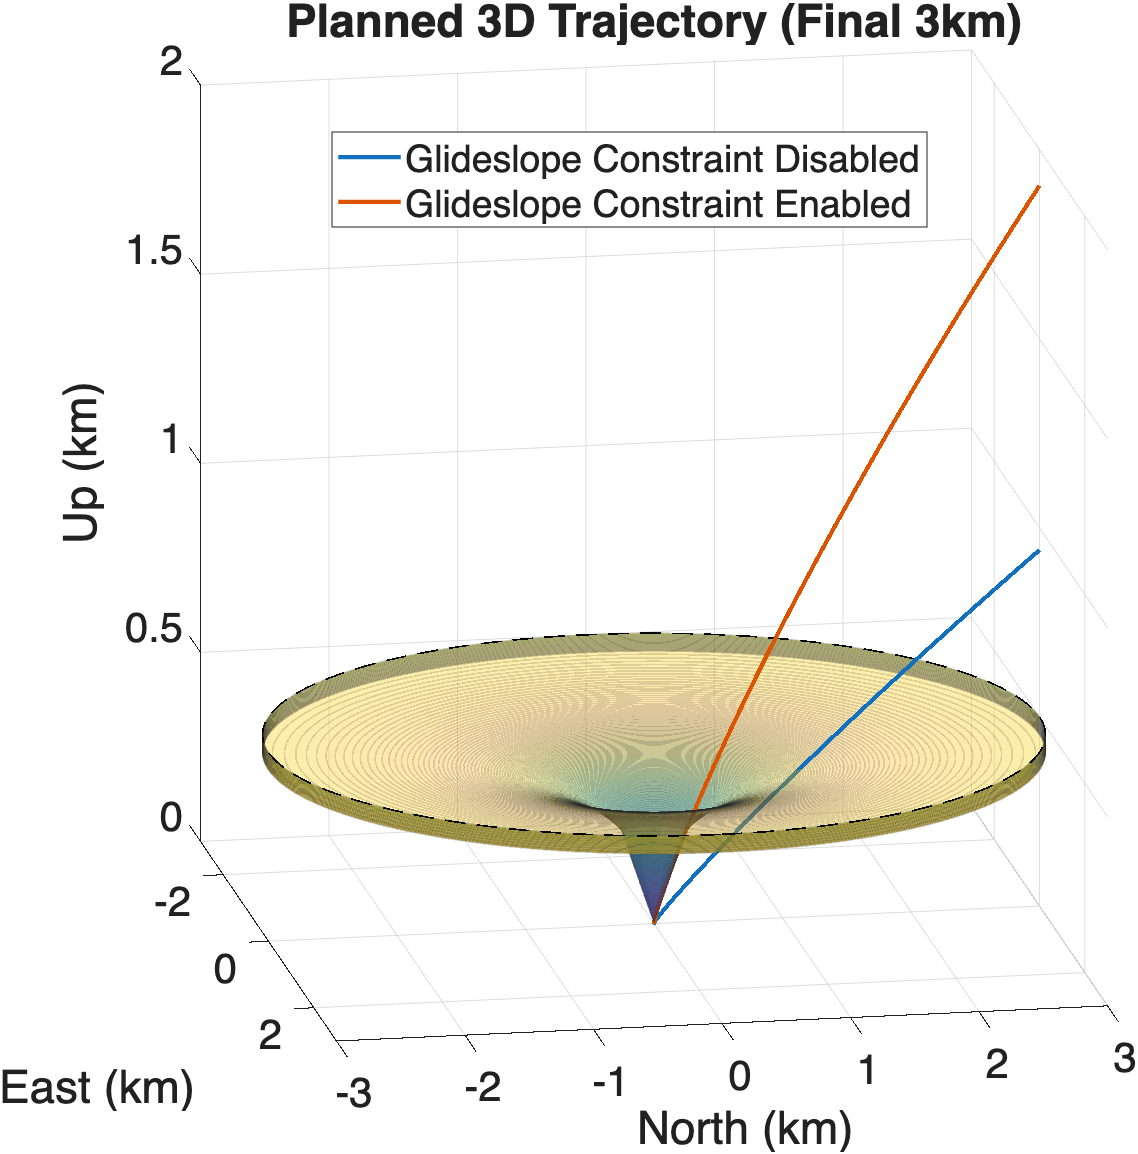
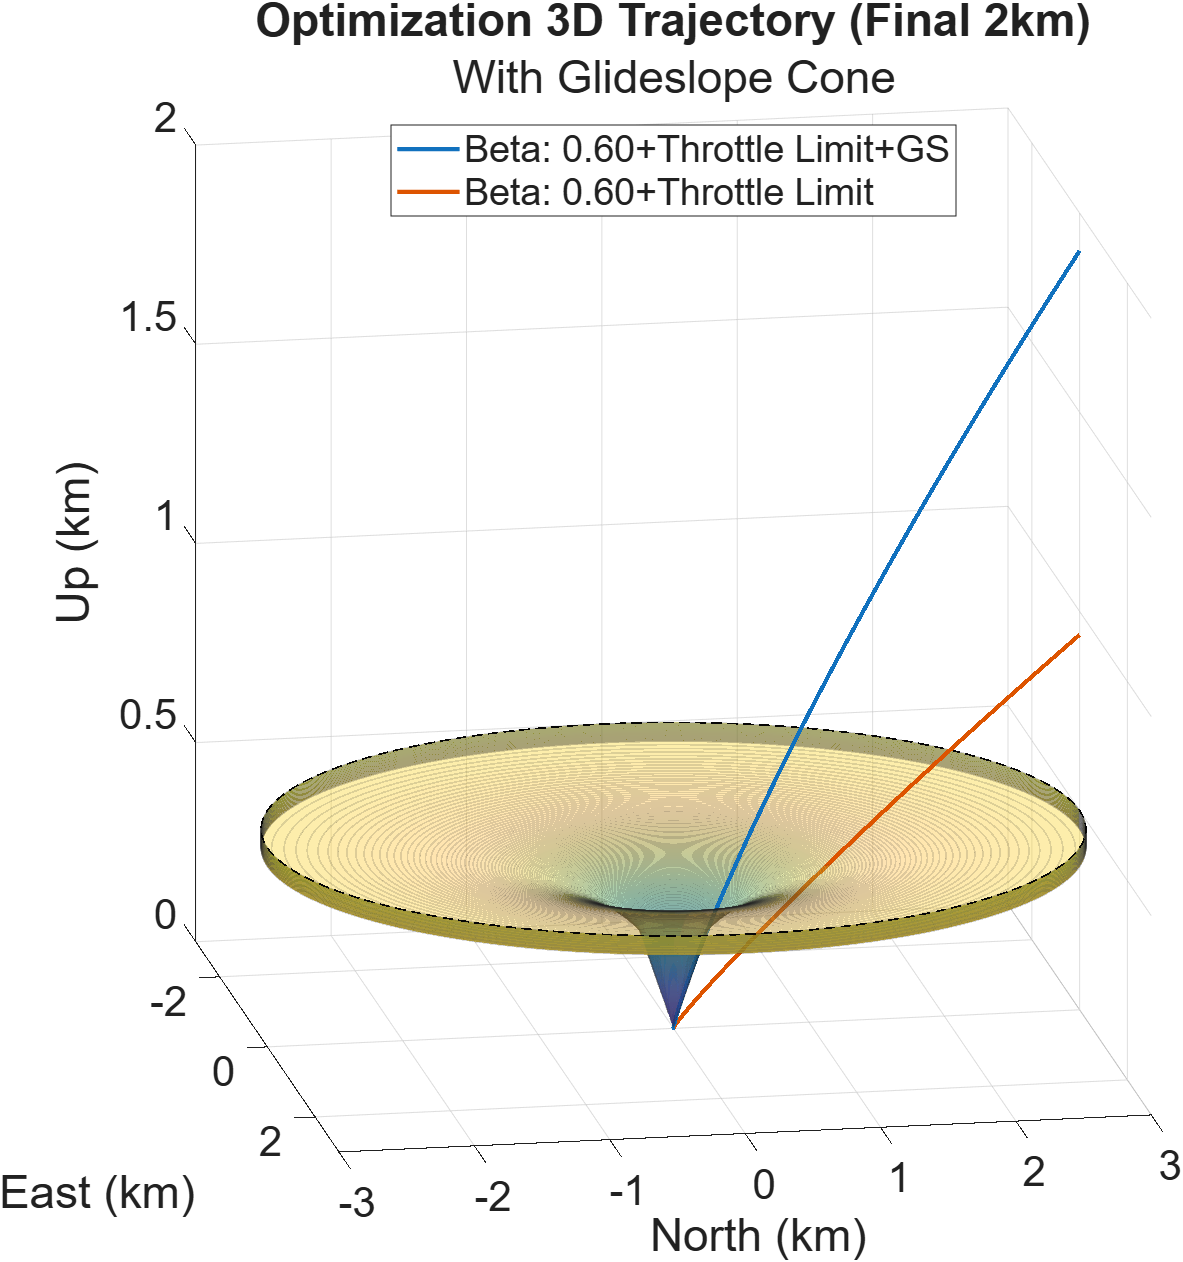
stuff

diff --git a/plotting.m b/plotting.m
@@ -7,22 +7,22 @@ function plotting(tTraj, stateTraj, optParams, optCost, aTOptim, mOptim, rdOptim
     descString = string.empty;
     
     descString(end+1) = sprintf("Beta: %.2f", betaParam);
+    descString(end+1) = sprintf("Throttle Limit");
     if optimParams.updateOpt
         descString(end+1) = "ReOpt";
-    else
-        descString(end+1) = "Static";
+
     end
     if optimParams.pointingEnabled
         descString(end+1) = "Pointing";
     end
     if optimParams.glideSlopeEnabled
-        descString(end+1) = "Glideslope";
+        descString(end+1) = "GS";
     end
     if flag_thrustGotLimited
         descString(end+1) = "Saturated";
     end
     descString = join(descString, "+");
-    legendTag = descString + " @ " + runTime;
+    legendTag = descString;% + " @ " + runTime;
 
 
     % Define Color for each run
@@ -32,7 +32,7 @@ function plotting(tTraj, stateTraj, optParams, optCost, aTOptim, mOptim, rdOptim
         % Count data entries on Fig 1
         fig1Entries = findobj(fig1Handle, 'Type', 'line');
         for i = 1:length(fig1Entries)
-            if contains(fig1Entries(i).DisplayName, '@')
+            if contains(fig1Entries(i).DisplayName, 'B')
                 existingRuns = existingRuns + 1;
             end
         end
@@ -53,6 +53,7 @@ function plotting(tTraj, stateTraj, optParams, optCost, aTOptim, mOptim, rdOptim
     rMoon = problemParams.rMoon; 
     [~, ~, U0] = enuBasis(deg2rad(problemParams.landingLatDeg),deg2rad(problemParams.landingLonDeg));
     isp = nonDimParams.ispND;
+    
 
     % Process Simulation Data
     if hasSimData
@@ -122,7 +123,7 @@ function plotting(tTraj, stateTraj, optParams, optCost, aTOptim, mOptim, rdOptim
     end
     
     xlabel('Time s'); ylabel('Throttle Fraction');
-    title('Planned Throttle Profile');
+    title('Optimization Throttle Profile');
     legend('Location','best');
     set(gca, 'FontSize', 20);
 
@@ -138,7 +139,7 @@ function plotting(tTraj, stateTraj, optParams, optCost, aTOptim, mOptim, rdOptim
 
     plot(arcLengthOpt/1000, alt_opt/1000, '-', 'Color', runColor, 'LineWidth', 2, 'DisplayName', legendTag);
     xlabel('Range km'); ylabel('Up km');
-    title('Planned Flight Path (Range vs Alt)');
+    title('Optimization Flight Path (Range vs Alt)');
     legend('Location','best');
     set(gca, 'FontSize', 20);
     
@@ -192,11 +193,12 @@ function plotting(tTraj, stateTraj, optParams, optCost, aTOptim, mOptim, rdOptim
     
    
     xlabel('East (km)'); ylabel('North (km)'); zlabel('Up (km)');
-    title('Planned 3D Trajectory (Final 3km)');
+    title('Optimization 3D Trajectory (Final 2km)');
+    subtitle('With Glideslope Cone');
     view(80, 15); camproj orthographic;
     zlim([0,2]); xlim([-3,3]); ylim([-3,3]);
     axis square;
-    legend('Location','bestoutside');
+    legend('Location','north');
     set(gca, 'FontSize', 20);
 
     % Figure 4: Optimization Velocity Profile
@@ -228,7 +230,11 @@ function plotting(tTraj, stateTraj, optParams, optCost, aTOptim, mOptim, rdOptim
     % plot(tspanOpt(2:end)*T_ref, aTOptimTOPO(1,2:end), 'b-', 'LineWidth', 1.0, 'DisplayName', [labelMainOpt ' East']);
     % plot(tspanOpt(2:end)*T_ref, aTOptimTOPO(2,2:end), 'b--', 'LineWidth', 1.0, 'DisplayName', [labelMainOpt ' North']);
     % plot(tspanOpt(2:end)*T_ref, aTOptimTOPO(3,2:end), 'b:', 'LineWidth', 1.0, 'DisplayName', [labelMainOpt ' Up']);
-    
+
+    if isempty(findobj(gca, 'DisplayName', 'Desired Final Acceleration, a_f^*'))
+        afStarDim = norm(nonDimParams.afStarND) * A_ref;
+        yline(afStarDim, 'k--', 'LineWidth', 1, 'DisplayName', 'Desired Final Acceleration, a_f^*');
+    end
     legend('Location', 'best');
     xlabel('Time s'); ylabel('Accel m/s^2'); title('Planned Accel Profile (TOPO)');
     grid on;
